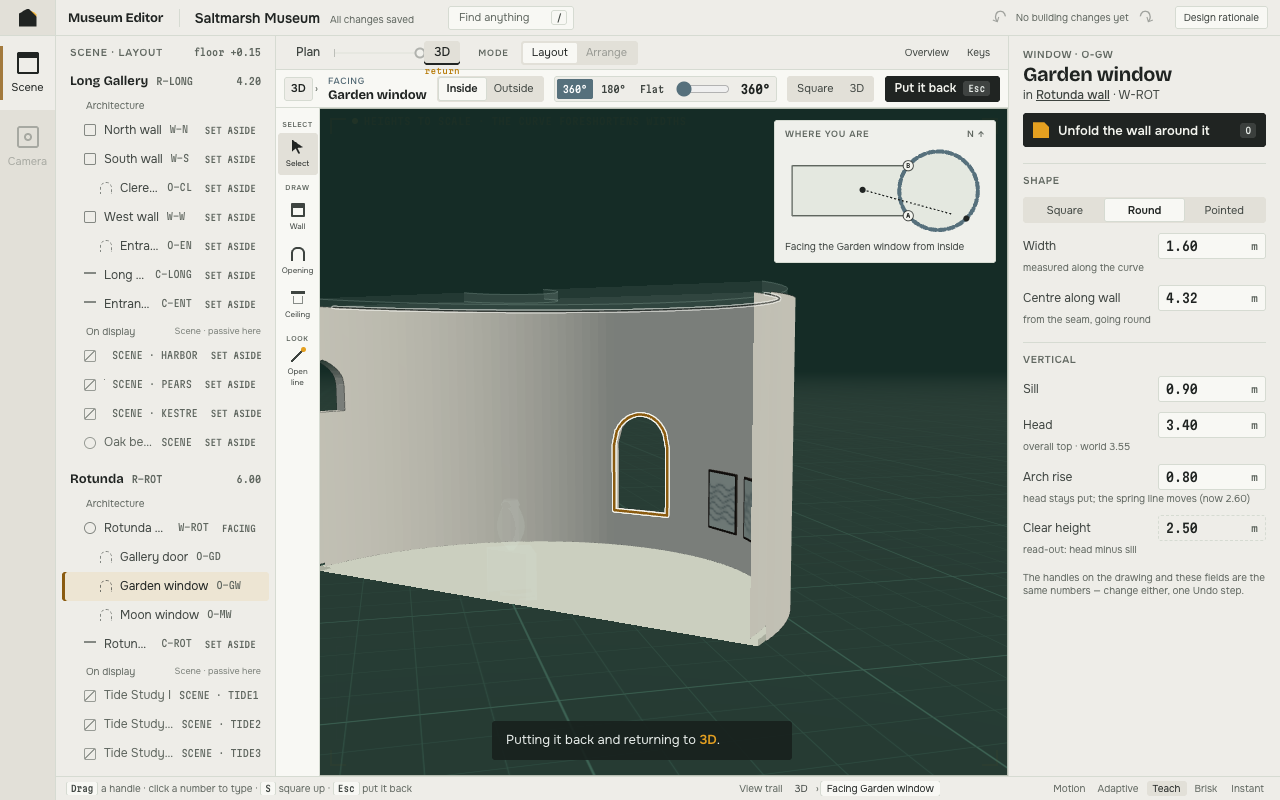
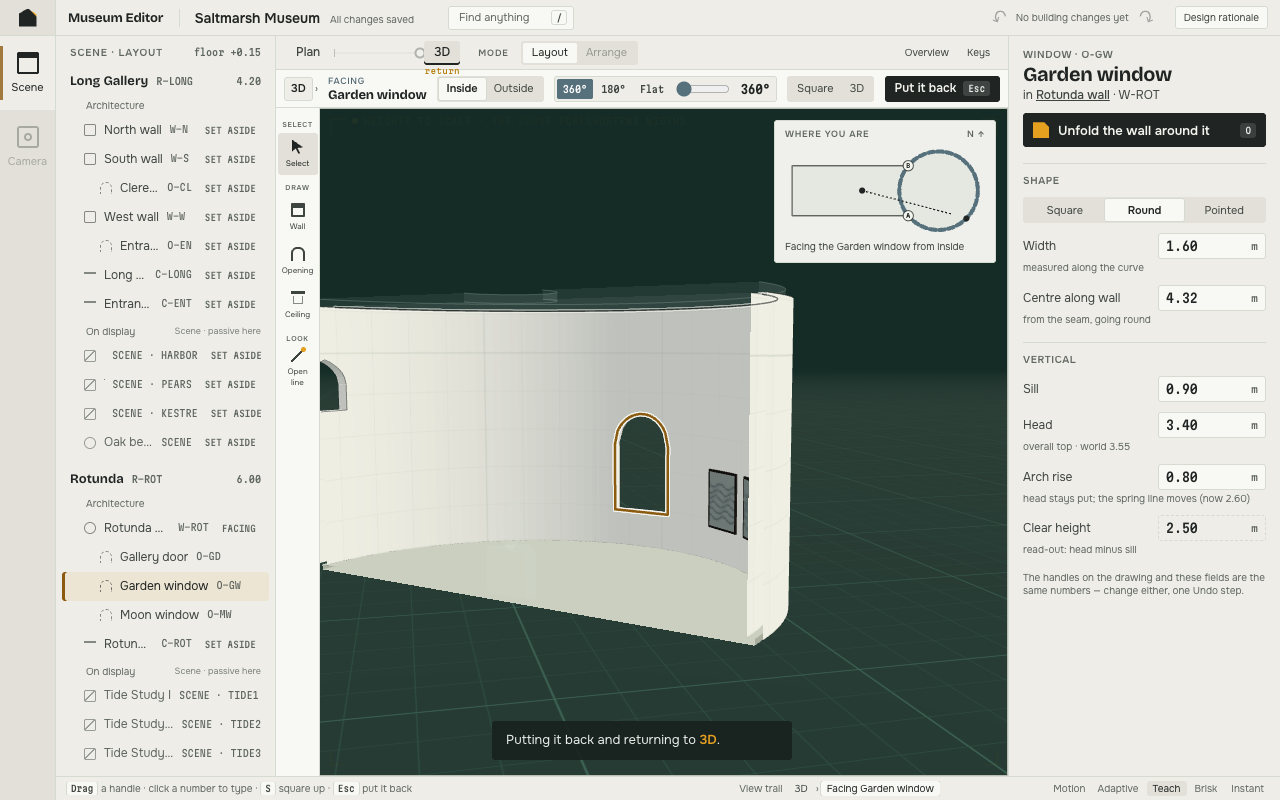
P26 demo: make the drafting sheet follow the drawing, not the wall's curvature
A squared rotunda read as paper while a squared straight wall stayed plain architecture, because the sheet trigger was displacement alone. Decide it in one place instead: the settled subject of a face session wears the sheet whether the wall is straight or curved, and keeps it when the view tilts back to 3D, so no wall changes surface because of its kind or its curvature and the curvature slider no longer recolours the wall it rolls.

Generated with Codebuff

Changed region(s): [[0.25, 0.3438, 0.625, 0.8125]]

diff --git a/docs/roadmap/p26-spatial-depth/Final-Design-Prototype/app/actions.js b/docs/roadmap/p26-spatial-depth/Final-Design-Prototype/app/actions.js
@@ -356,11 +356,13 @@ KIND.face = {
   },
   apply(s, p) {
     s.settle = p;
+    syncSheet(s.wallId);
   },
   teardown(s) {
     const sd = st();
     for (const id of sd.items.keys()) sd.d(id).mode = 'normal';
     const ds = sd.d(s.wallId);
+    s.settle = 0;
     ds.u = 0; ds.sA = null; ds.sheet = false;
     sd.refreshWall(s.wallId);
     if (S.sel) sd.d(S.sel).hl = 'sel';
@@ -412,15 +414,29 @@ export const setSide = (side) => run(async () => {
 
 // ----- unfold: a curved wall laid flat around the anchor -----
 
-// A displaced wall wears the paper-sheet material for as long as it is off its footprint, so an
-// unrolled wall can never be mistaken for an authored change of shape.
+// The paper-sheet material answers one question: is this wall being shown as a drawing? It is on
+// for the settled subject of a face session — straight or curved, squared or tilted back to 3D, so
+// no wall changes surface because of its kind or because the representation moved — and for any
+// wall off its footprint, so an unrolled wall can never be mistaken for an authored change of
+// shape. The curvature slider therefore never recolours a wall it is asked to roll.
+export function sheetWanted(id) {
+  const s = S.session;
+  const settled = s?.kind === 'face' && s.wallId === id && (s.settle ?? 0) > 0.5;
+  return !!(settled || st().d(id).u > 0.01);
+}
+
+function syncSheet(id) {
+  const sd = st(), ds = sd.d(id);
+  const on = sheetWanted(id);
+  if (ds.sheet !== on) { ds.sheet = on; sd.restyle(); }
+}
+
 export function applyUnroll(s, u) {
   s.u = u;
   const ds = st().d(s.wallId);
   ds.u = u;
   st().refreshWall(s.wallId);
-  const sheet = u > 0.01;
-  if (ds.sheet !== sheet) { ds.sheet = sheet; st().restyle(); }
+  syncSheet(s.wallId);
 }
 
 // One beat: the wall unrolls while the camera travels, lifting slightly mid-flight so the
@@ -520,6 +536,7 @@ export function beginPeel(wallId, sA) {
   sess.home = faceHome(sess);
   S.session = sess;
   S.summary = null;
+  syncSheet(w.id);
   ctx.ui();
   return sess;
 }

diff --git a/docs/roadmap/p26-spatial-depth/design/visual-system-refinement/qa/ACCEPTANCE.md b/docs/roadmap/p26-spatial-depth/design/visual-system-refinement/qa/ACCEPTANCE.md
@@ -17,6 +17,7 @@ demo file touched. Nothing outside `docs/roadmap/p26-spatial-depth/` was changed
 | `app/geometry.js` | Generated display-only `uv` attribute on wall geometry; end/reveal faces masked |
 | `app/overlay.js` | Editable numbers become real buttons; pooled labels drop stale role attributes; the value being dragged keeps its place |
 | `app/draw.js` | Active-value emphasis; refusal notice class |
+| `app/actions.js` | One rule for the drafting sheet (`sheetWanted`/`syncSheet`): the settled subject of a face session wears it, straight or curved, in the squared view and after tilting back to 3D; any wall off its footprint still wears it |
 | `app/main.js` | Active-edit state on gesture start/end/cancel; vellum typing surface |
 | `app/state.js` | `activeEdit` presentation state |
 
@@ -39,6 +40,7 @@ bash journey-check.sh revised
 bash probe-roll.sh http://localhost:8826 revised        # §4 curvature-slider finding
 bash probe-roll.sh http://localhost:8826/_baseline baseline   # needs `git archive 674b2294` extracted there
 bash probe-sheet.sh http://localhost:8826 shipped       # §4 sheet calibration sweep
+bash probe-surface.sh http://localhost:8826 revised     # §7 drafting-surface rule
 agent-browser eval "$(cat contrast-check.js)"
 python3 make-compare.py                     # rebuilds compare.html
 ```
@@ -66,6 +68,7 @@ captures were produced with.
 | Sheet grid alpha | minor 0.28, major 0.45 | the plan's §3 values, identical to the vellum ground |
 | Sheet material | `map` = paper tile, `emissive` paper @ **0.36** (baseline 0.45) | calibrated to the vellum ground's own rendered brightness; see §4 |
 | Sheet UV step | open walls 5 m major / 1 m minor exactly; closed walls `L / round(L/5)` | rotunda: 4.937 m major → 0.987 m minor, u range `[0, 7]` exactly (seam closes) |
+| Sheet trigger | settled face subject (`settle > 0.5`) **or** `u > 0.01` | one rule for straight and curved walls; the curvature slider never recolours a wall (see §4) |
 | Perimeter | `#B8BEB3`, 1 px, `inset: 0`, `pointer-events: none`, `z-index: 1` | no layout, camera-aspect or pointer change |
 
 Measured at the reference Plan framing (1440 × 900): chosen minor **1 m**, minor spacing **21.7 px**,
@@ -81,7 +84,7 @@ Matched pairs: **34** (`compare.html`).
 | --- | --- | --- |
 | V1 | Plan, North wall selected | 1 m/5 m grid at 21.7/108.4 px; paper and grid at full opacity; Navigator `sel` edge uses dark ochre on light |
 | V2 | 3D overview, opening selected | Mat, depth, artwork unchanged; handles present on both dark ground and light geometry |
-| V3 | Garden window facing, fully unrolled | vellum sheet with `uv` present and matching vertex count; `u` range `[0, 7]` exactly; openings/artwork unobscured |
+| V3 | Garden window facing, fully unrolled | vellum sheet on the faced **straight** wall (this specimen previously showed plain architecture, because a straight wall could never earn the sheet); `uv` present and matching vertex count; `u` range `[0, 7]` exactly on the rotunda; openings/artwork unobscured |
 | V4a/b | Partly peeled, inside and outside | grid coordinates stable across `u`; no stretching (UVs derive from `s`); reveal/top faces masked to a plain texel |
 | V5 | Section, depth, view-only displacement | Beyond-depth is a **slate** chip and slate `where` block, not a warning; poche/opening selection unchanged |
 | V6 | Lift/look-up, clearance notice | caution surface (`#F7EDE8`/`#E2CBC1`/`#C85A48`/`#3A241D`) with the existing recovery action; intentional openings stay in the `--open` family |
@@ -219,14 +222,32 @@ Full table: [`contrast-table.md`](./contrast-table.md), measured from the runnin
    unchanged `--tape` values while selection/manipulation use the new `--ochre` family. This is a
    deliberate role split, recorded as a calibration point the owner may choose to unify.
 
-**Open — consistency of the drafting surface (owner-reported 2026-09-29, decision pending).** When a
-wall settles square, the rotunda reads as paper while a straight wall does not, so the same settled
-state presents two different surfaces. The trigger is curvature only: `applyUnroll` sets
-`ds.sheet = u > 0.01`, and `scrubUnroll` exits early for `kind !== 'arc'` (status: “The … is straight,
-so its face is already to scale”). Plan §4.5 scopes the sheet to walls “off their footprint”, which
-is why a squared straight wall never qualifies. Making the paper follow the *representation* instead
-would change what the sheet means, so the target rule is the owner's call and no change has been
-made yet.
+**Resolved — consistency of the drafting surface (owner-reported 2026-09-29).** Owner chose: the
+paper follows the 2D drafting state. The trigger used to be curvature alone (`ds.sheet = u > 0.01` in
+`applyUnroll`, with `scrubUnroll` exiting early for straight walls), so in one settled state the
+rotunda read as paper and a straight wall did not. `sheetWanted(id)` now answers one question — is
+this wall being shown as a drawing? — and is consulted by `syncSheet` from the face gesture's settle
+progress, from `applyUnroll`, and when a peel session starts:
+
+| State (`probe-surface.sh`) | Before | After |
+| --- | --- | --- |
+| 3D home, no session | `foam` | `foam` (unchanged) |
+| north settled square | `foamSel` | **`sheet`** |
+| rotunda settled square | `sheet` | `sheet` (unchanged) |
+| rotunda faced, curvature slider at 0 | `foamSel` | **`sheet`** — the slider no longer recolours the wall |
+| rotunda settled, view tilted off square | `sheet` | `sheet` — colour stays consistent returning to 3D |
+| every wall in the model, settled in turn (north, south, west, rotunda) | mixed | **all `sheet`** |
+
+The material swap happens once, as the wall settles (`settle > 0.5`), so it rides the existing
+movement instead of popping. A wall off its footprint keeps the sheet as before, so an unrolled or
+peeled wall still cannot be mistaken for an authored change of shape (plan §4.5), and journeys A–F
+and the 27 interaction checks were re-run unchanged (48/48 and 27/27, 0 console errors).
+
+This deliberately **widens plan §4.5's “off their footprint” wording** by owner decision: the sheet
+now also marks the wall the settled drawing is about. It adds no geometry, value, unit, camera,
+history or picking behaviour — `sheetWanted` only chooses between two existing materials — and the
+plan's own V3 specimen asks for a vellum sheet on a faced straight wall, which the old curvature-only
+trigger could never produce.
 
 ## 8. Required repository checks
 
